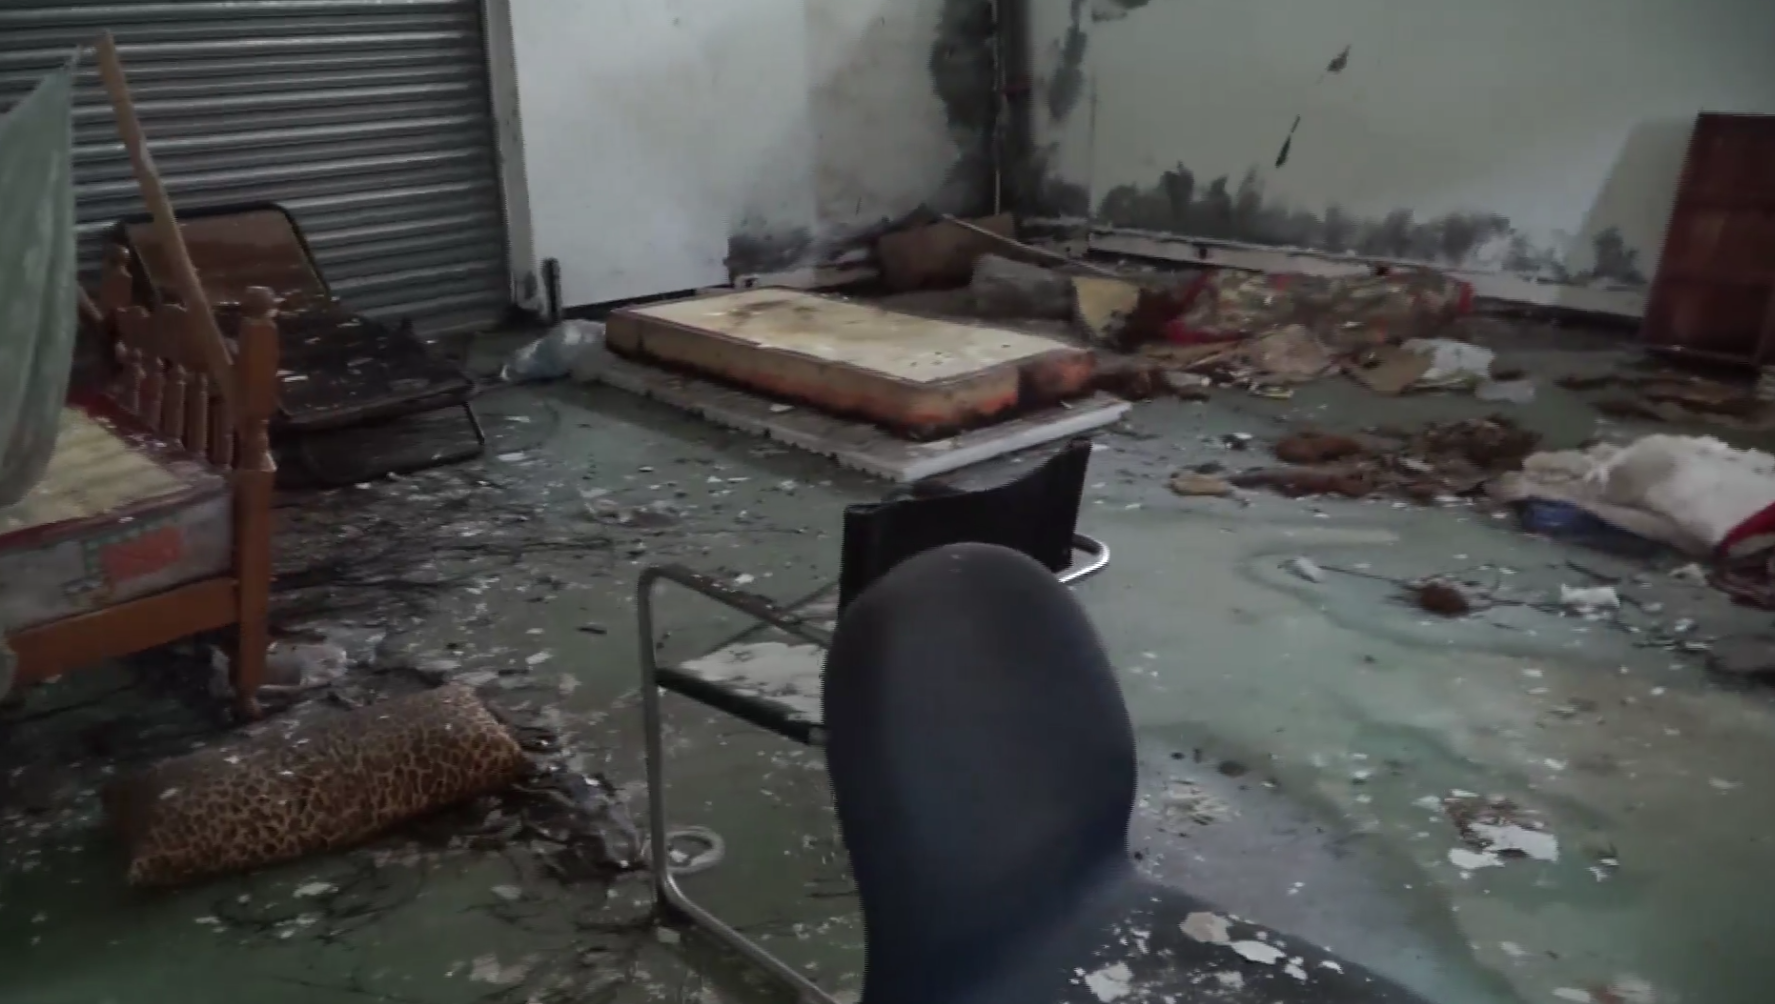
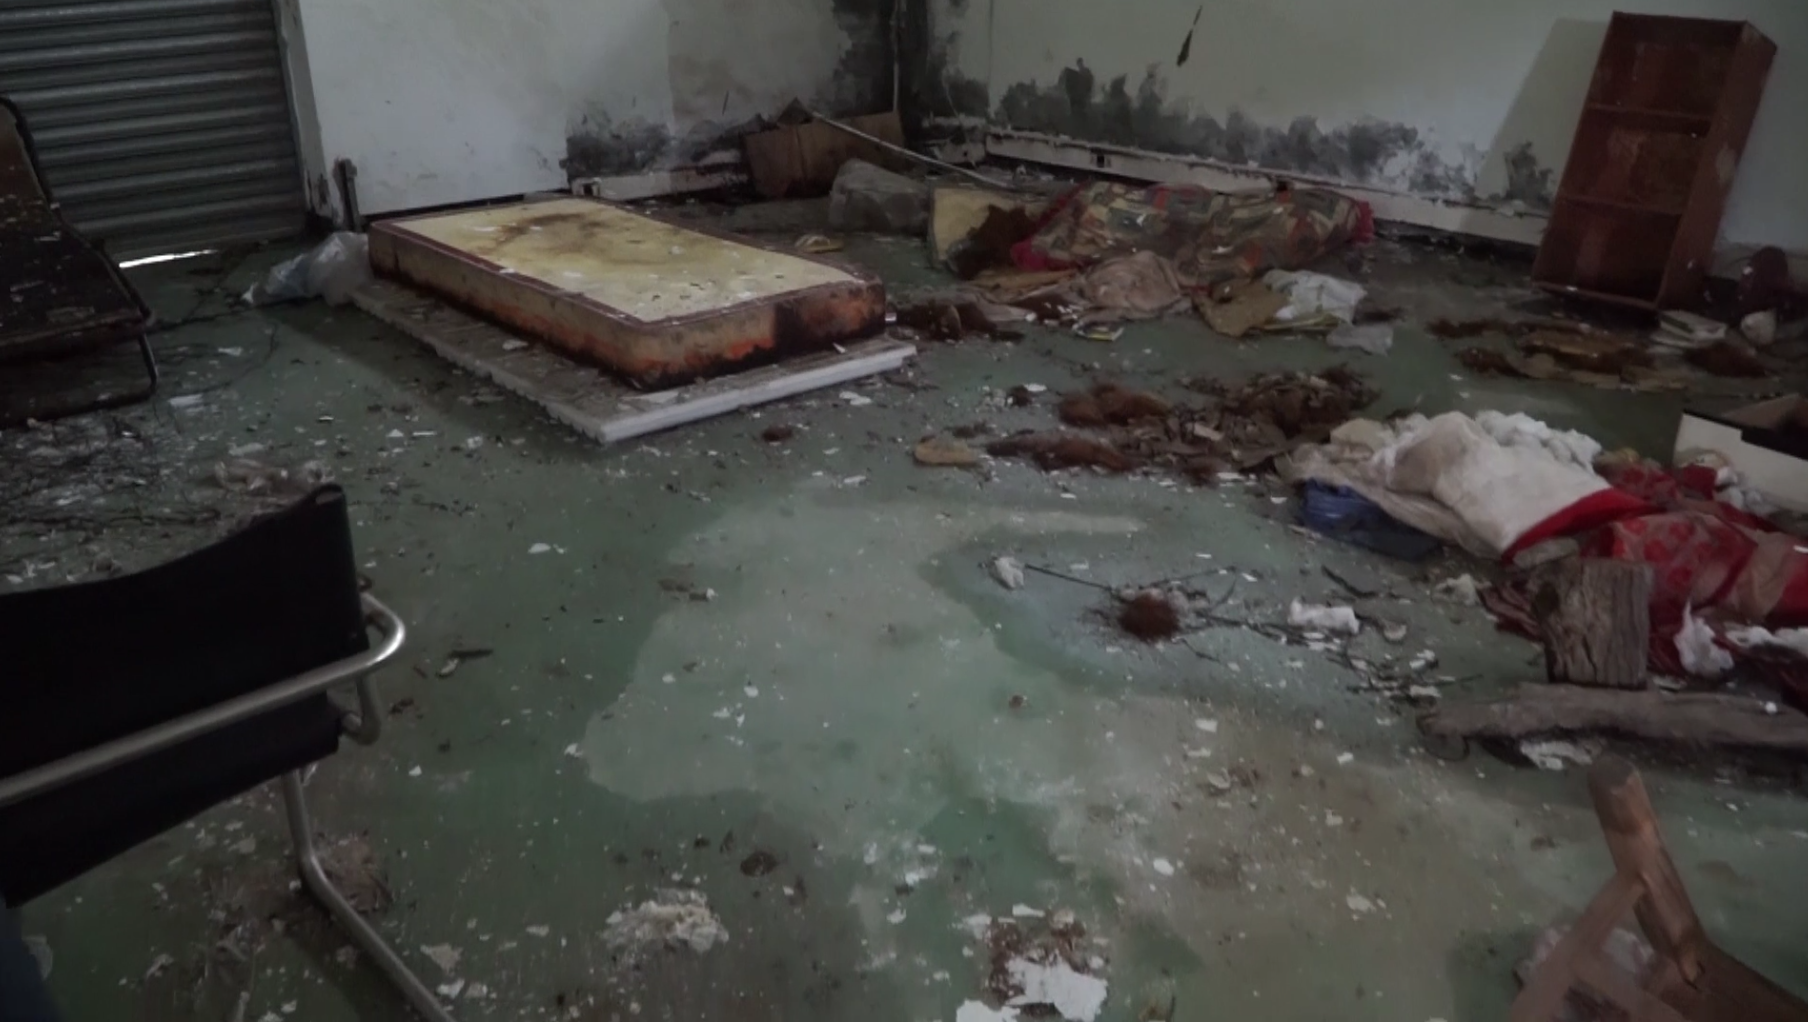
upd

diff --git a/hw3/report/hw3.tex b/hw3/report/hw3.tex
@@ -1,5 +1,5 @@
 \documentclass[11pt]{article}
-\usepackage[a4paper,  margin=1in]{geometry}
+\usepackage[a4paper,  margin=.8in]{geometry}
 \usepackage{enumitem}
 \usepackage{color}
 \usepackage{graphicx}
@@ -65,9 +65,9 @@ In this project, we aim at producing a \textbf{ghostly} video with computer gene
 \begin{itemize}
   \itemsep=0pt
   \item Video shooting: Chih-Hung Hall
-  \item Calibration or structure-from-motion: Video Copilot
-  \item Add CGI:
-  \item Video editing:
+  \item Calibration or structure-from-motion: Tracker
+  \item Add CGI: Video Copilot Element 3D
+  \item Video editing: Coloring, Sound
 \end{itemize}
 \section{Implementation}
 \subsection{Environment}
@@ -75,20 +75,29 @@ In this project, we aim at producing a \textbf{ghostly} video with computer gene
   \itemsep=0pt
   \item Video Recorder: Sony Alpha 6000
   \item OS: Windows 10 Enterprise
-  \item Tools/Libraries: Adobe After Effects \cite{ref:AE}, Video Copilot \cite{ref:copilot}, Voodoo Camera Tracker v1.2.0 beta \cite{ref:voodoo}, Blender v2.6.2 \cite{ref:blender}
+  \item Tools/Libraries: Adobe After Effects (AE) \cite{ref:AE}, Video Copilot Element 3D \cite{ref:copilot}
 \end{itemize}
 
 \subsection{Video shooting}
 Since we want to produce ghostly video, we thought that Chih-Hung Hall, which is a basically a ruin nowadays, is a convenient and satisfactory place. So we went to the Chih-Hung Hall to shoot some messy, spooky and eerie scenes, as shown in Fig. \ref{fig:Chih-Hung}.
+\subsection{Calibration or structure-from-motion}
+After shooting the scene, we use Tracker in AE to find features and annotates key points. Tracker will help us keep track of these points when the view of the recorder changes.
+\subsection{Add CGI}
+Every three Delaunay points among the key points will form a plane where we can place CGI on it. We downloaded CGIs from the Internet with only 3D geometry structure, and then utilizes Copilot to fill in the texture.  Then, after selecting an adequate location to place the CGI, transformations (scaling, rotation, etc,.) are performed to make the result natural. Next we add shadow by adding a flat, horizontal layer and let selected light projected onto the layer. However, CGIs are still quite different from the surrounding objects, especially at the border. So we tried a little bit of blur on the border of CGIs. In summary, we add a swinging chair, a Coca-Cola can (difficult to find) and a floating but funny ghost to the video.
+\subsection{Video editing}
+Until this step, the video is basically done. However, the color/hue of the entire video was not acceptible for such a ghostly scene. So we adjust the color/hue to make it much more scary. The final appearance is shown in Fig. \ref{fig:shot1}. Also, we add creepy background music to complete the whole video.
 \begin{figure}[!ht]
   \centering
-   \includegraphics[width=1\linewidth]{{Chih-Hung}.png}
+  \includegraphics[width=1\linewidth,trim={0 4.7cm 0 4.7cm},clip]{{Chih-Hung}.png}
    \caption{A scene in the Chih-Hung Hall}
    \label{fig:Chih-Hung}
 \end{figure}
-\subsection{Calibration or structure-from-motion}
-\subsection{Add CGI}
-\subsection{Video editing}
+\begin{figure}[!ht]
+  \centering
+  \includegraphics[width=1\linewidth,trim={0 3.2cm 0 3.2cm},clip]{{shot1}.png}
+   \caption{After adding CGI and coloring}
+   \label{fig:shot1}
+\end{figure}
 \section{Reference}
 \bibliographystyle{unsrt}
 \bibliography{hw3}
